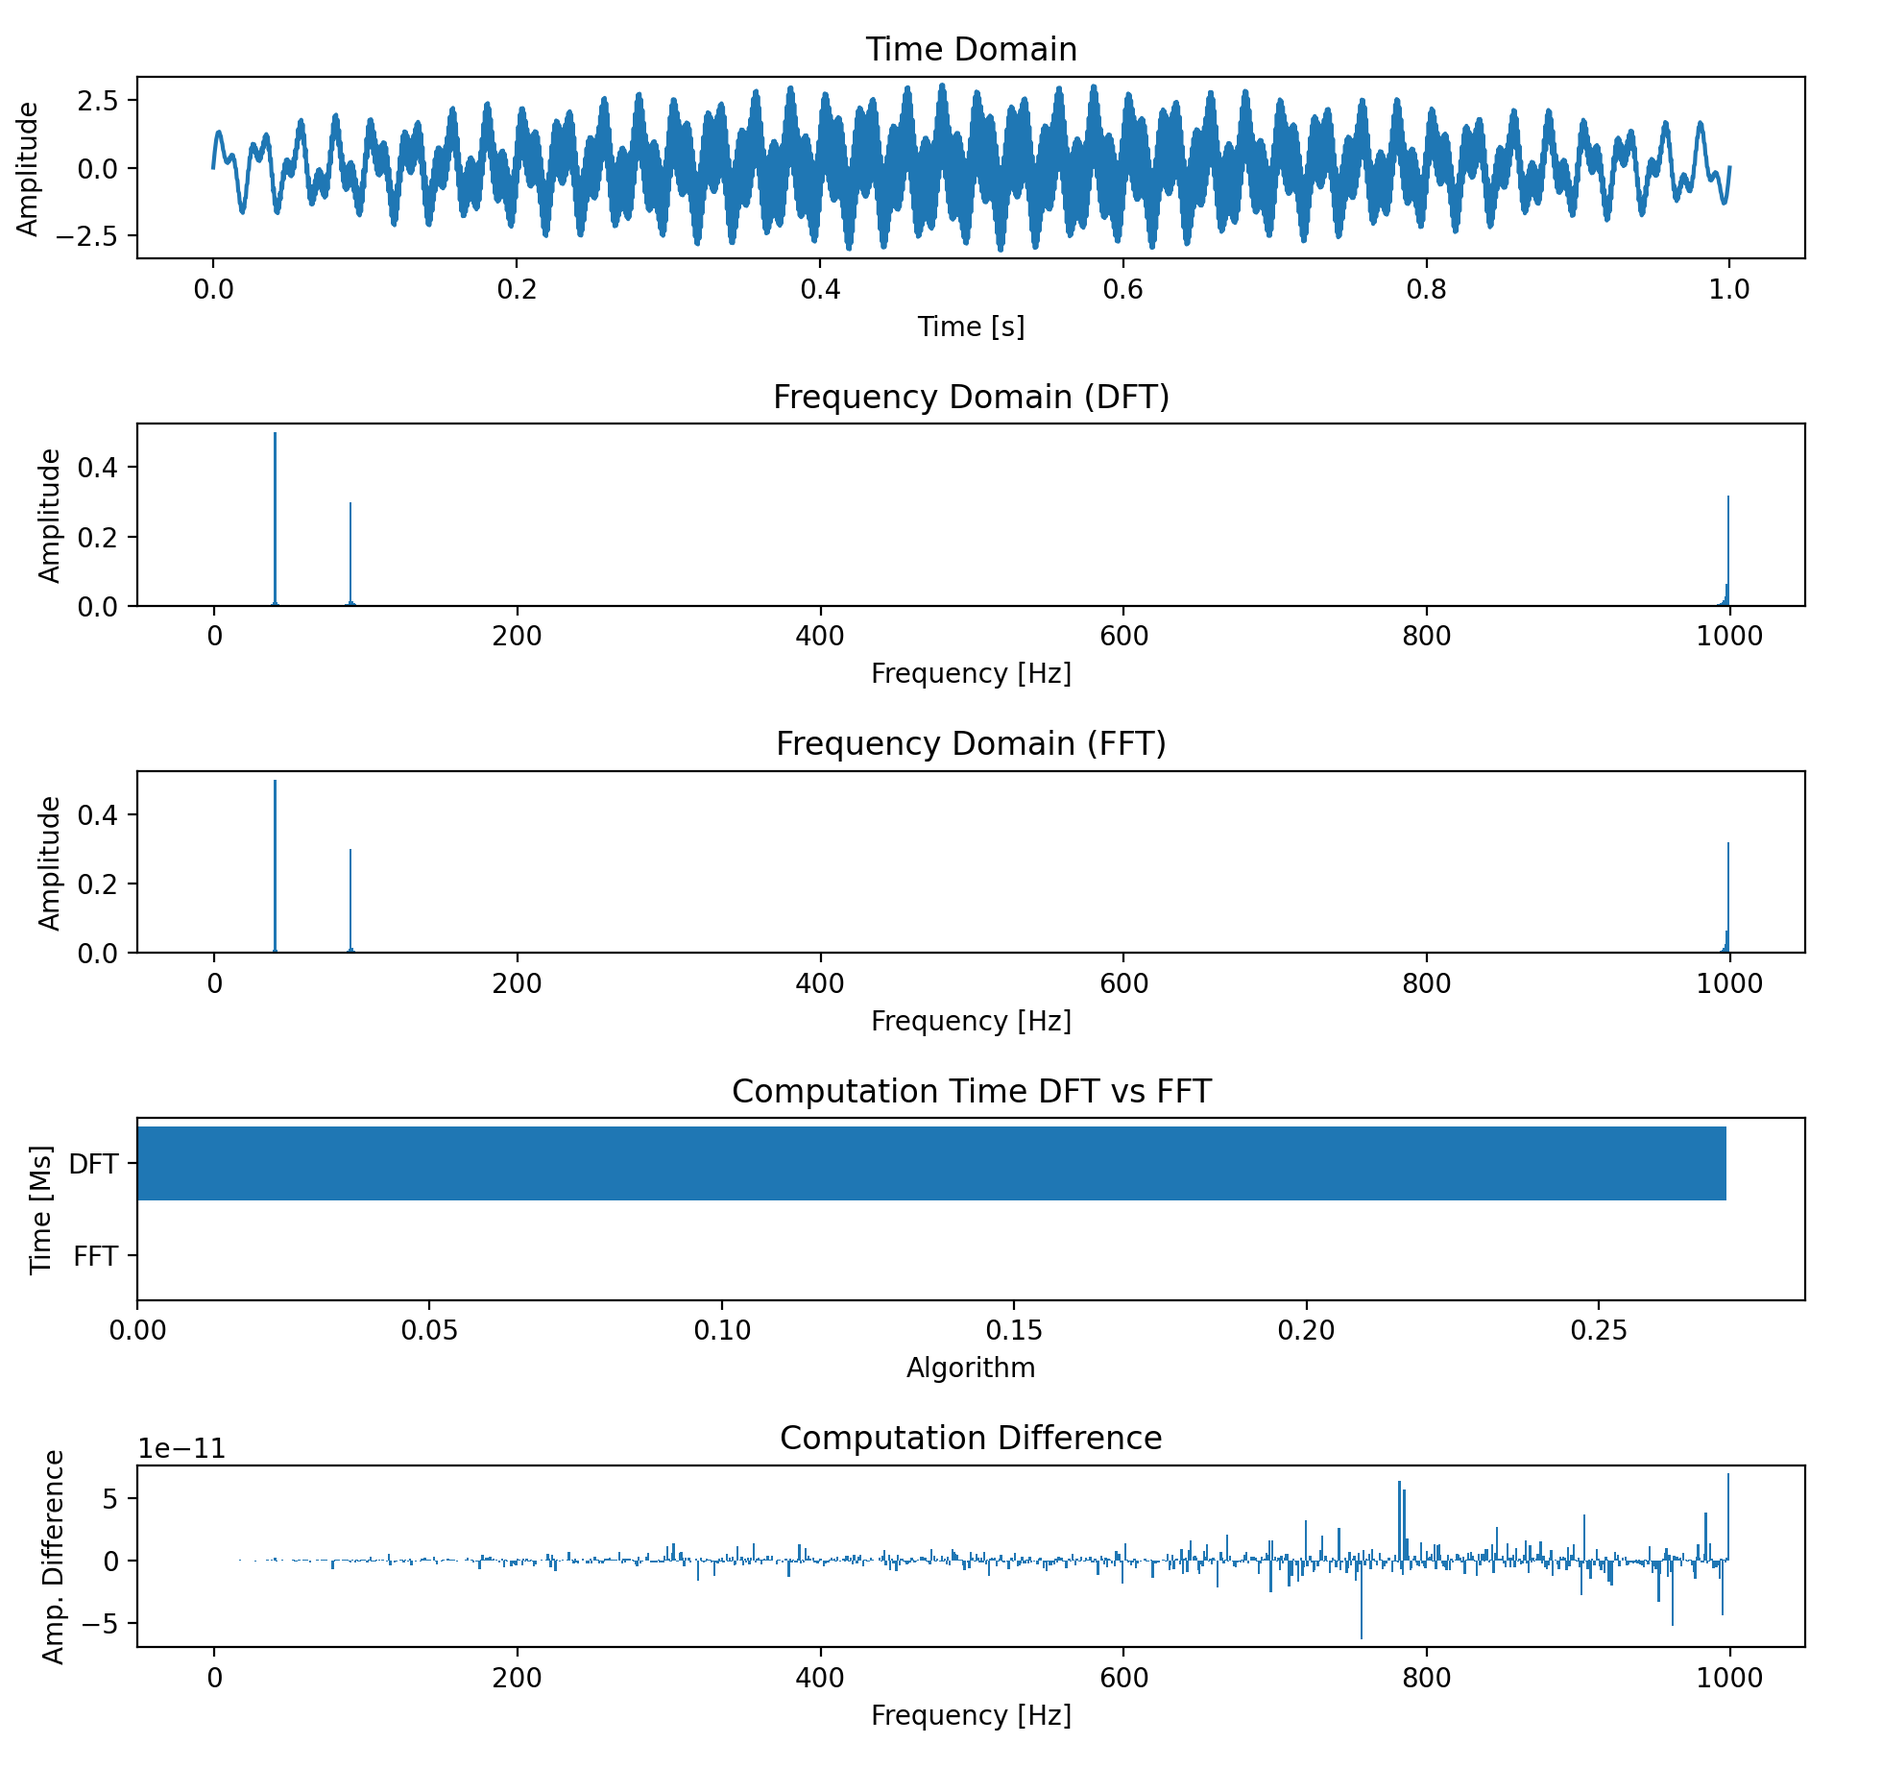
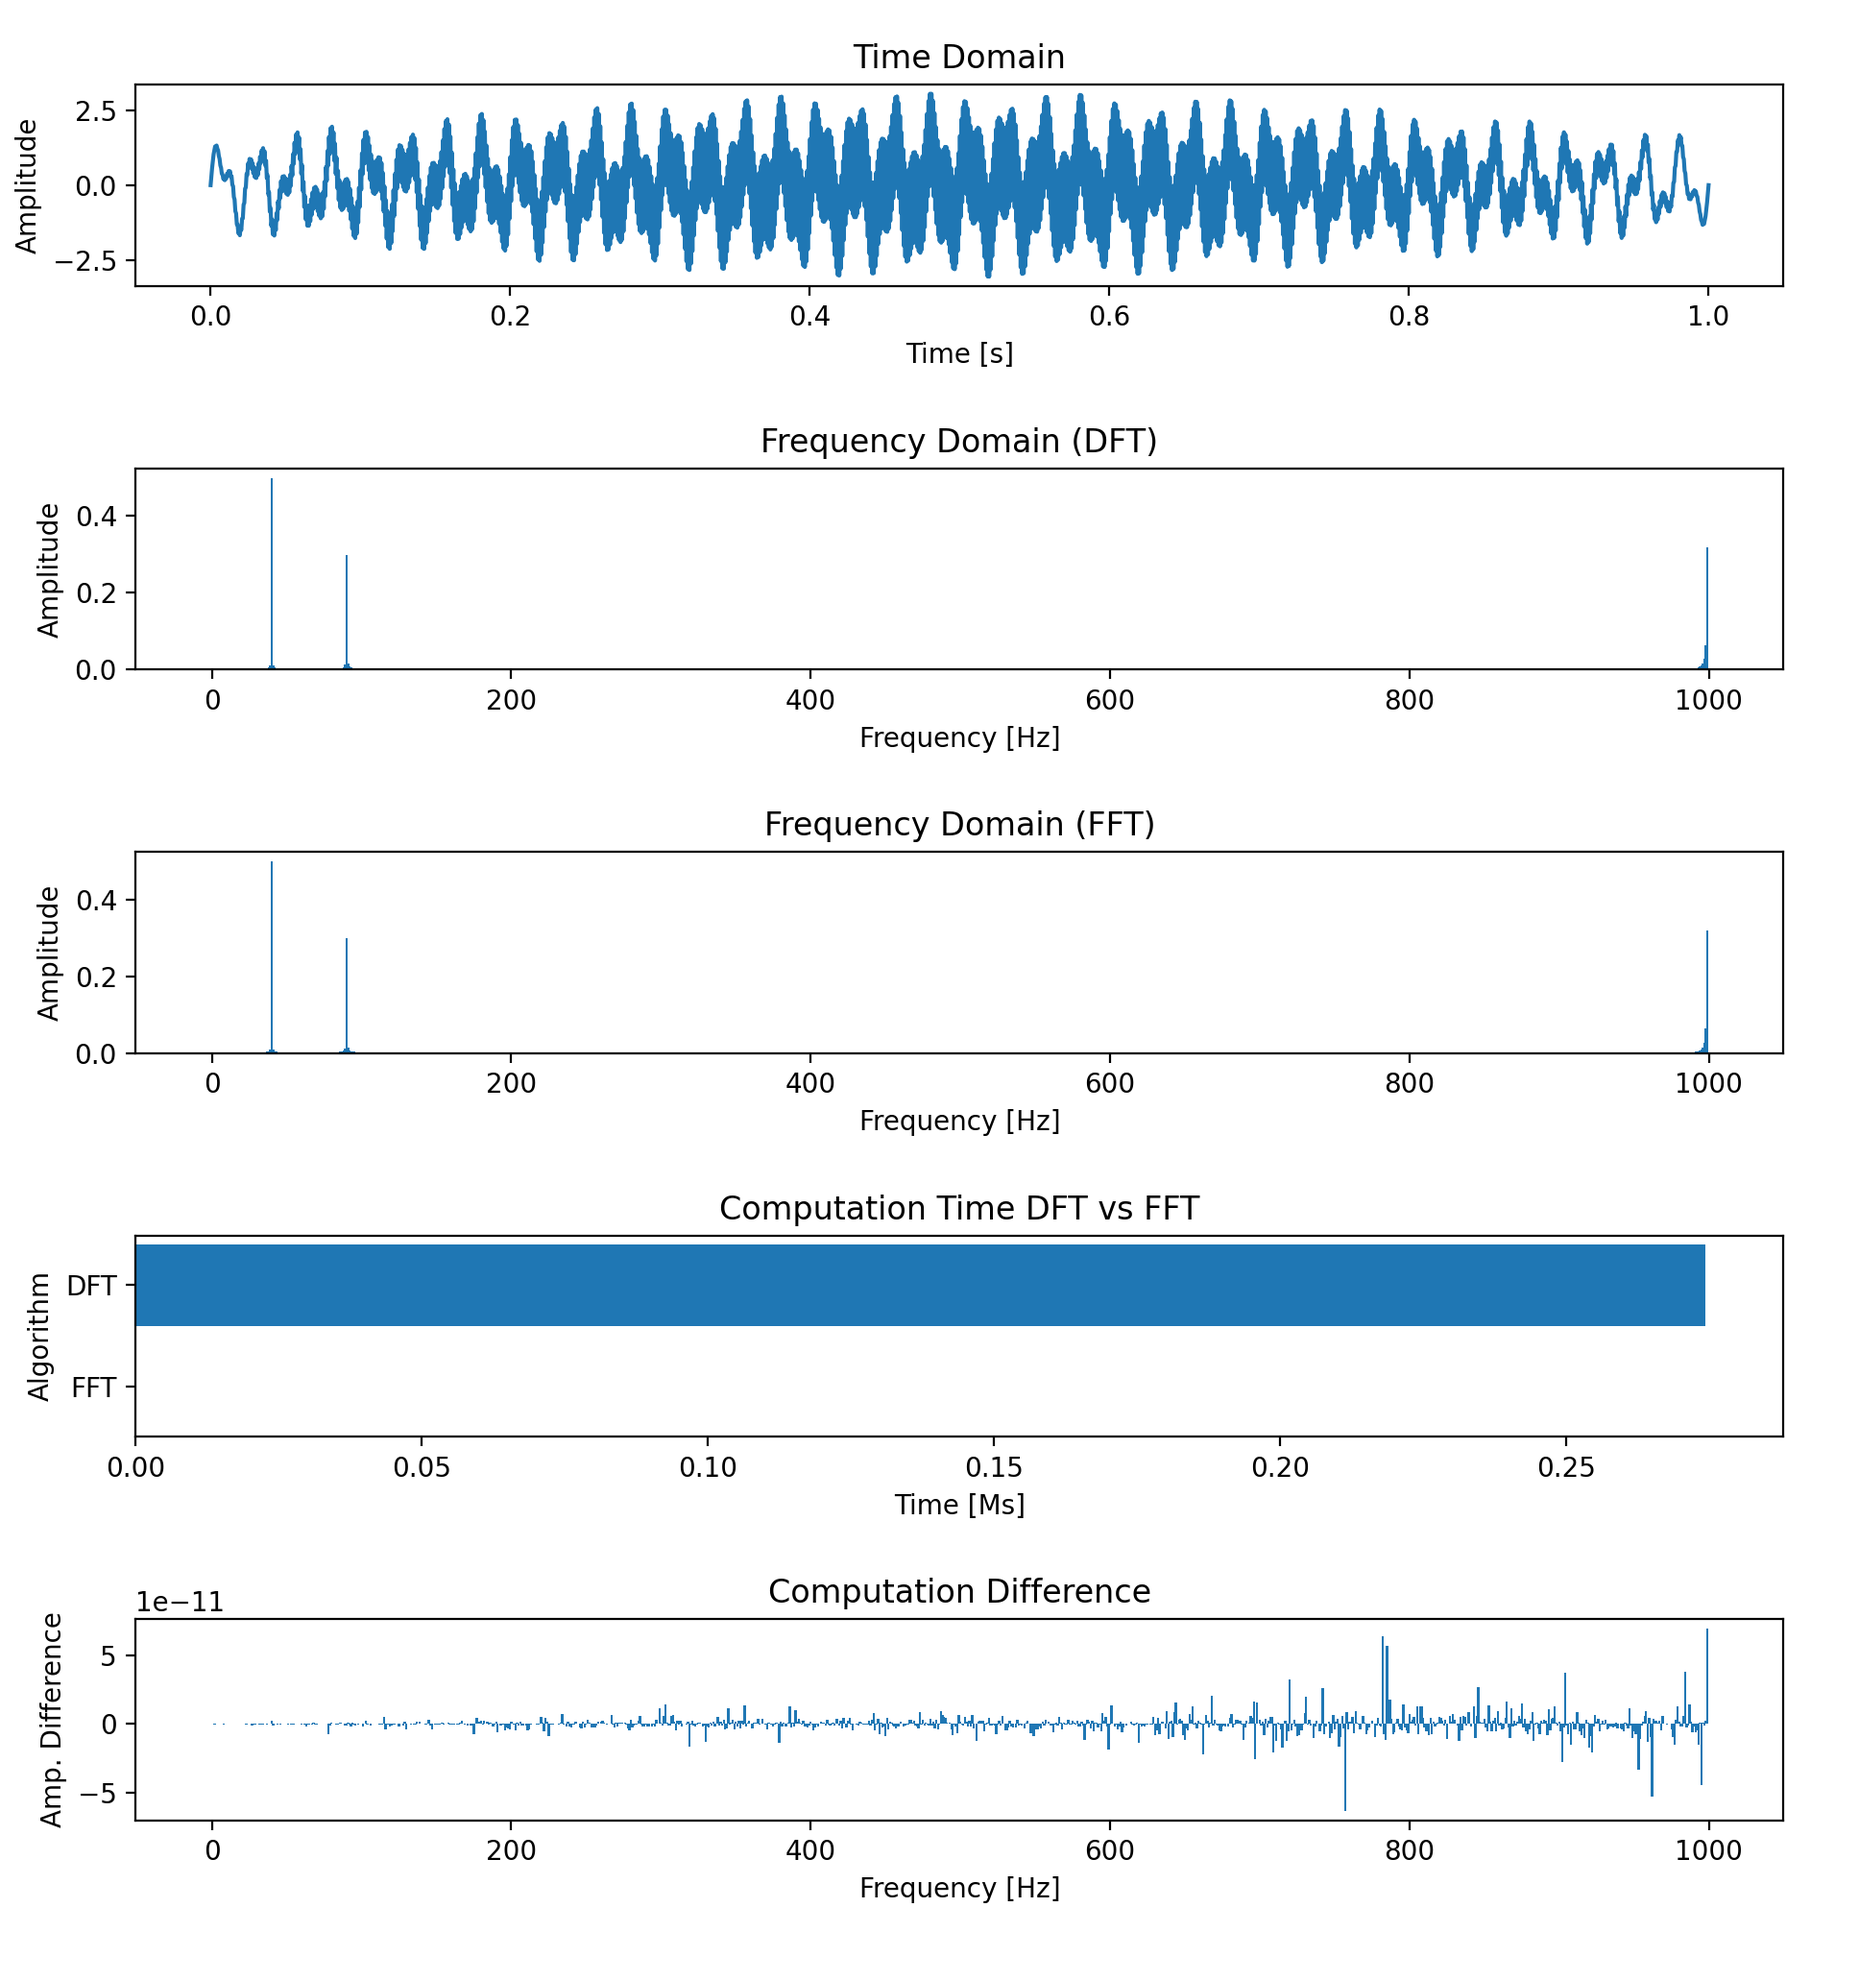
correction

diff --git a/main.py b/main.py
@@ -71,7 +71,7 @@ if __name__ == "__main__":
     # Computation Times
     x = ['FFT', 'DFT']
     y = [elapsed_fft, elapsed_dft]
-    axs[3].set(xlabel='Algorithm', ylabel='Time [Ms]')
+    axs[3].set(xlabel='Time [Ms]', ylabel='Algorithm')
     axs[3].set_title('Computation Time DFT vs FFT')
     axs[3].barh(x, y)
 
